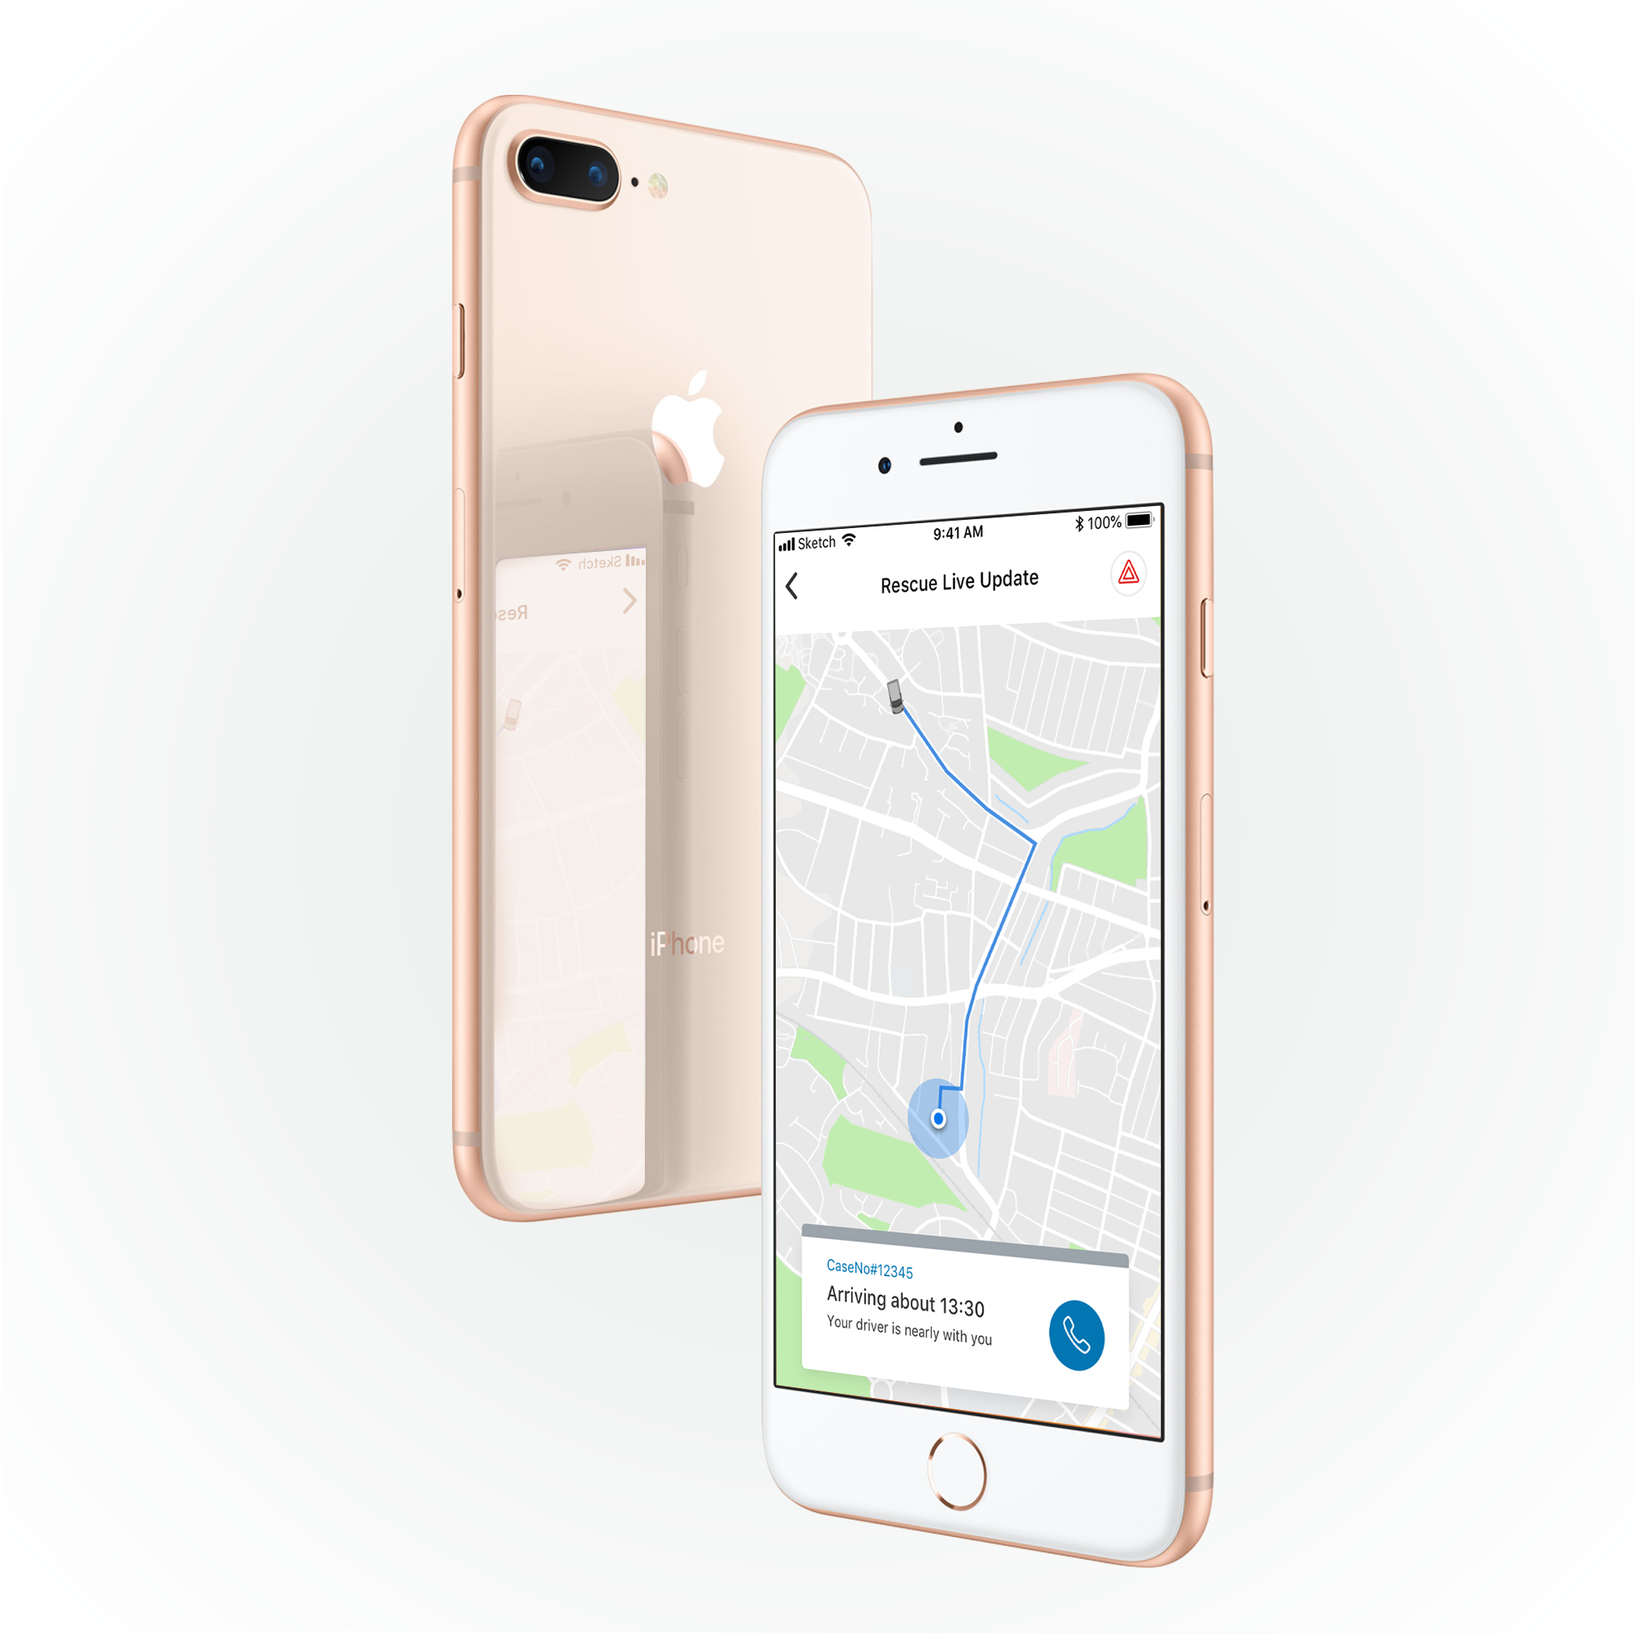
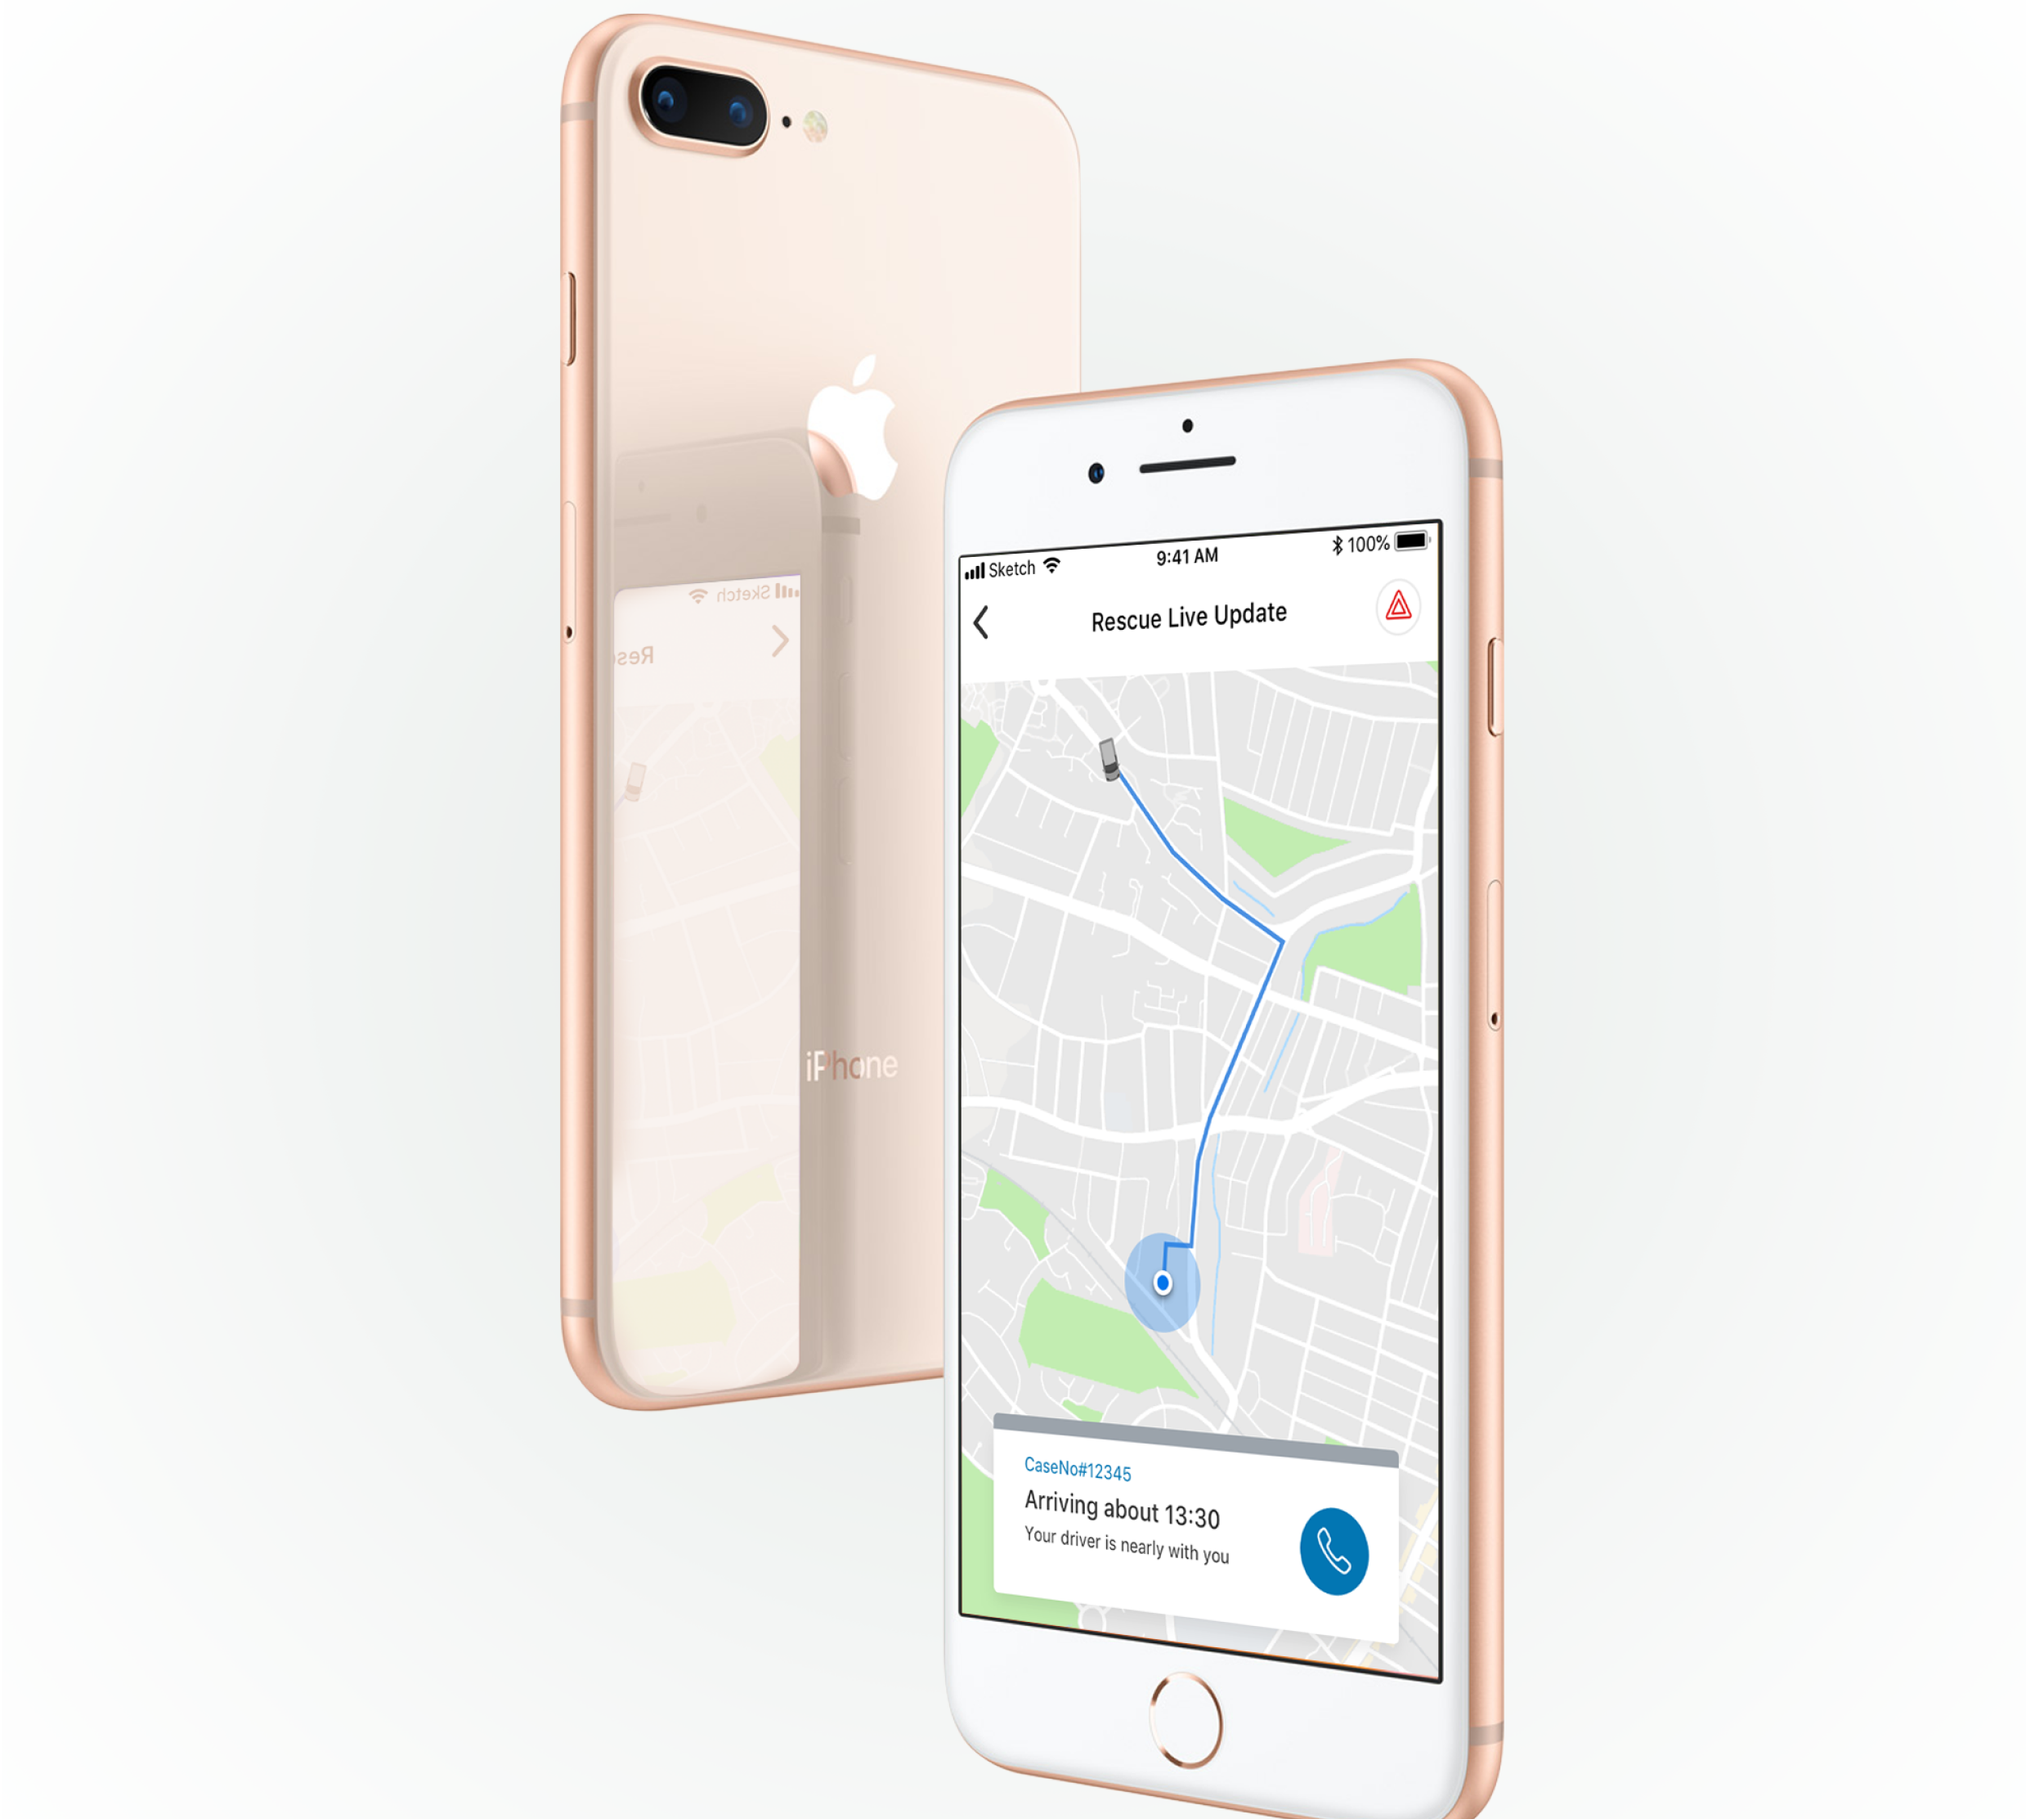
RSA style changes

diff --git a/src/RSA.js b/src/RSA.js
@@ -11,9 +11,9 @@ import UXFlow from '../src/Components/Assets/Img/RSAflow.png'
 import Exploration1 from '../src/Components/Assets/Img/Exploration1.png';
 import Exploration2 from '../src/Components/Assets/Img/Exploration2.png';
 import Userresearch from '../src/Components/Assets/Img/Research.jpg'
-import FinalMockup1 from '../src/Components/Assets/Img/RSAGoldIphone.png'
+import FinalMockup1 from '../src/Components/Assets/Img/DigitalRSA.png'
 import FinalMockup2 from  '../src/Components/Assets/Img/RSAHand.png'
-import FinalMockup3 from  '../src/Components/Assets/Img/DigitalRSA.png'
+import FinalMockup3 from  '../src/Components/Assets/Img/RSAGoldIphone.png'
 
 
 const Styles = styled.div`
@@ -30,7 +30,7 @@ const Styles = styled.div`
 
  .userResearchPicture {
   max-height:95vh !important;
-  max-width:100vw !important;
+  max-width:90vw !important;
   border-readius:4px;
 
  }
@@ -44,9 +44,10 @@ const Styles = styled.div`
 }
 
 .headerJumbotronImage {
-  width: 100%; 
-  height: 400px;
+  width: 100vw; 
+  height: 750px;
   max-height: 20%;
+  margin-bottom: 20px;
 }
 
   .projectPicture{
@@ -64,7 +65,7 @@ const Styles = styled.div`
 
   .userResearchPicture {
     max-height:100vh;
-    max-width:36vw;
+    max-width:32vw;
     border-radius: 4px;
 
   }
@@ -151,7 +152,7 @@ const Styles = styled.div`
   .explorationImage {
 
     max-height:100vh;
-    max-width:90vw;
+    max-width:70vw;
     border-radius: 4px;
 
   }
@@ -160,7 +161,12 @@ const Styles = styled.div`
     font-family: Open Sans, sans-serif;
     font-size: 1.1rem;
     color: #202020;
+  }
 
+  .finalSoloutionImage {
+    max-height:100vh;
+    max-width:70vw;
+    border-radius: 4px;
   }
 
   .nextProjectHeader {
@@ -188,7 +194,14 @@ const Styles = styled.div`
     line-height: 150%;
     letter-spacing: 0.01em;
     color: #FFFFFF;
-      }
+    }
+
+    .mt-6 {
+      margin-top: 60px;
+    }
+    .mt-8 {
+      margin-top: 80px;
+    }
 
 }
 
@@ -260,14 +273,14 @@ export const RSA = () => (
       <Container>
 
         <Row className="mb-5">
-          <div className = "mx-auto col-md-4">
+          <div className = "mx-auto col-md-3">
             <img className = "userResearchPicture" alt ="Furquan conducting user research" src={Userresearch} />
           </div>
-          <div className = "offset-md-3 col-md-5">
-            <h3 className="headerCopy mb-2">User Research Insights</h3>
-            <p className="researchCopy mb-4">I conducted user research with vehicle owners in the UK and Germany to understand the current breakdown experience, customer pain points and goals.</p>
+          <div className = "offset-md-4 col-md-5">
+            <h3 className="headerCopy mb-3">User Research Insights</h3>
+            <p className="researchCopy mb-4">I conducted user research with vehicle owners in the UK and Germany to understand customer pain points and goals.</p>
             <ul className="researchListCopy">
-            <li className="mb-3">The current breakdown experience is "frustrating" due to a lack of communication, transparency and understanding of what's hapenning.</li>
+            <li className="mb-3">The breakdown experience is "frustrating" due to a lack of communication, transparency and understanding of what's hapenning.</li>
             <li className="mb-3">Customers want to make sure they can get back on the road as quick as possible.</li>
             <li className="mb-3">Safety is really important for customers  just like Maslow's Hierarchy Of Needs.  </li>
             </ul>
@@ -277,10 +290,10 @@ export const RSA = () => (
 
         <Row>
         <div className="col">
-          <h3 className="headerCopy mb-3">Mapping the UX Flow</h3>
+          <h3 className="mt-3 headerCopy mb-3">Mapping the UX Flow</h3>
           <div className="uxFlowBodyCopy">
           <p>I worked directly with our RSA partner ARC to map out how the end to end experience looks like when you breakdown. Depending on whether you have the FordPass app installed and you have data available on your phone you will seek a different experience.  
-            The flow also maps out what part of the flow “ARC” is handles and what part Ford handles. 
+            The flow also maps out what part of the flow “ARC” handles and what part Ford handles. 
           </p>
           <p>
           Based on our research users told us they usually phone up roadside assistance directly and seek assistance there. 
@@ -295,7 +308,7 @@ export const RSA = () => (
           </Row>
 
           <Row>
-            <div className="col">
+           <div className="col">
             <img className="flowProjectPicture mt-4" align="center" alt ="roadside assistance app" src={UXFlow} />
            </div>
          </Row>
@@ -303,14 +316,14 @@ export const RSA = () => (
      
        <Row>
          <div className="col">
-         <h3 className="mt-5 headerCopy">Exploring Design Concepts</h3>
+         <h3 className="mt-8 headerCopy">Exploring Design Concepts</h3>
          </div>
        </Row>
 
         <Row className="mx-auto">
-          
+         <div className="col">
           <img  className ="explorationImage" align="center" alt ="roadside assistance app" src={Exploration1} />
-        
+          </div>
         </Row>
 
         <Row className="mx-auto">
@@ -321,13 +334,9 @@ export const RSA = () => (
 
         <Row>
         <div className="col">
-
          <div className="mb-5">
-            <h3 className="headerCopy">Legal And Technical Design Challenges</h3>
-            <p className="mt-3 legalBodyCopy">
-            Working with our external partner "ARC" meant i had to take into consideration the technical constraints from both Ford and ARC as the designs evolved.
-            </p>
-            <h5 className="mt-5 subHeaderCopy">No personal information DISPLAYED</h5>
+            <h3 className="mt-8 headerCopy">Legal And Technical Design Challenges</h3>
+            <h5 className="mt-4 subHeaderCopy">No personal information DISPLAYED</h5>
             <p className="legalBodyCopy">
             On the live recovery map we wanted the experience to feel more human, we tried to do this by providing a name and photo of the engineer and vehicle (2A). 
             However due to technical constraints we wasn't able to fetch this data from “ARC”. This meant we couldn't provide the exact vehicle make and model for the rescue van, and the name and picture of the engineer. 
@@ -349,27 +358,38 @@ export const RSA = () => (
       
 
          <Row>
-           <h3 className="headerCopy mb-3">Refinement</h3>
+         <div className="col">
+           <h3 className="mt-4 headerCopy mb-3">Refinement</h3>
            <p className="legalBodyCopy">When creating the final soloution we wanted to bring the designs more in brand and consistent with the FordPass app. To do this on the live recovery map we made the card consistent with the ones found on the “Find” map. 
            </p>
            <p className="legalBodyCopy"> 
               The cards are smaller and found on the bottom of the map making them easy for the user to interact with and continue the flow. 
               This also helped a lot with the hierarchy of the screen, making it a lot easier to see the recovery map.
           </p>
+          </div>
          </Row>
          <Row>
-         <h3 className="headerCopy mt-5 mb-3">Final Soloution</h3>
+          <div className="col">
+           <h3 className="headerCopy mt-8 mb-4">Final Soloution</h3>
+         </div>
          </Row>
 
         <Row className="mb-5">
-        <img alt ="Final soloution" src={FinalMockup1} />
+         <div className="col">
+         <img className="finalSoloutionImage" alt ="Final soloution" src={FinalMockup1} />
+         </div>
         </Row>
         <Row className="mb-5">
-        <img alt ="Final soloution" src={FinalMockup2} />
+         <div className="col">
+         <img className="finalSoloutionImage" alt ="Final soloution" src={FinalMockup2} />
+         </div>
         </Row>
-        <Row className="mb-5">
-        <img alt ="Final soloution" src={FinalMockup3} />
+        <Row className="mb-2">
+         <div className="col">
+         <img className="finalSoloutionImage" alt ="Final soloution" src={FinalMockup3} />
+         </div>
         </Row>
+        
       </Container>
 
       <Jumbotron className="nextProjectHeader">
